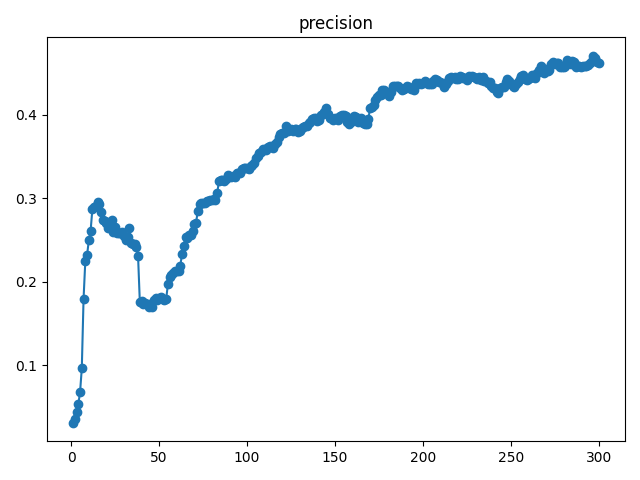
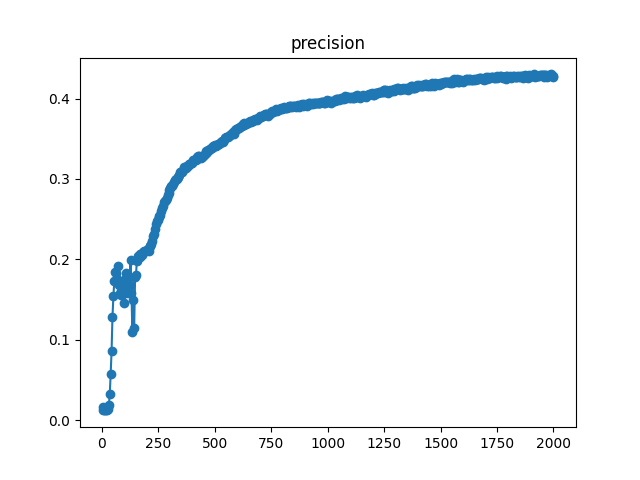
add ml1m precision img

diff --git a/U_CFGAN.py b/U_CFGAN.py
@@ -161,5 +161,5 @@ if __name__ == '__main__':
     top_k = 5
     train_set_dict, test_set_dict = read_ml1m('dataset/ml-1m/ratings.dat')
     train_set, test_set = get_matrix(train_set_dict, test_set_dict, nb_user=nb_user, nb_item=nb_item)
-    train_CFGAN(train_set, nb_item, epoches=1000, batch_size=128, nb_zr=512, nb_pm=512, alpha=1,
+    train_CFGAN(train_set, nb_item, epoches=2000, batch_size=128, nb_zr=512, nb_pm=512, alpha=1,
                 test_set_dict=test_set_dict, top_k=top_k)
